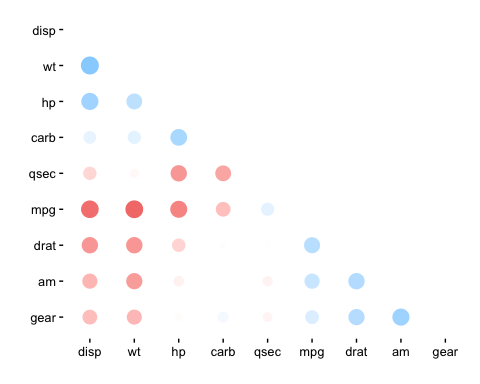
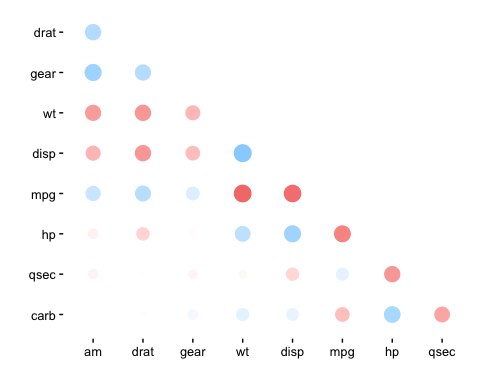
Update README

diff --git a/README.md b/README.md
@@ -114,20 +114,20 @@ corrr functions work in pipelines (`cor_df` in; `cor_df` or `tbl` out):
 x <- datasets::mtcars %>%
        correlate() %>%    # Create correlation data frame (cor_df)
        focus(-cyl, -vs, mirror = TRUE) %>%  # Focus on cor_df without 'cyl' and 'vs'
-       rearrange(method = "HC", absolute = FALSE) %>%  # arrange by correlations
+       rearrange() %>%  # rearrange by correlations
        shave() # Shave off the upper triangle for a clean result
-
+       
 fashion(x)
-#>   rowname disp   wt   hp carb qsec  mpg drat   am gear
-#> 1    disp                                             
-#> 2      wt  .89                                        
-#> 3      hp  .79  .66                                   
-#> 4    carb  .39  .43  .75                              
-#> 5    qsec -.43 -.17 -.71 -.66                         
-#> 6     mpg -.85 -.87 -.78 -.55  .42                    
-#> 7    drat -.71 -.71 -.45 -.09  .09  .68               
-#> 8      am -.59 -.69 -.24  .06 -.23  .60  .71          
-#> 9    gear -.56 -.58 -.13  .27 -.21  .48  .70  .79
+#>   rowname   am drat gear   wt disp  mpg   hp qsec carb
+#> 1      am                                             
+#> 2    drat  .71                                        
+#> 3    gear  .79  .70                                   
+#> 4      wt -.69 -.71 -.58                              
+#> 5    disp -.59 -.71 -.56  .89                         
+#> 6     mpg  .60  .68  .48 -.87 -.85                    
+#> 7      hp -.24 -.45 -.13  .66  .79 -.78               
+#> 8    qsec -.23  .09 -.21 -.17 -.43  .42 -.71          
+#> 9    carb  .06 -.09  .27  .43  .39 -.55  .75 -.66
 rplot(x)
 ```
 
@@ -135,9 +135,9 @@ rplot(x)
 
 ``` r
 
-mtcars %>% 
+datasets::airquality %>% 
   correlate() %>% 
-  network_plot(min_cor = .6)
+  network_plot(min_cor = .1)
 ```
 
 ![](README-combination-2.png)
